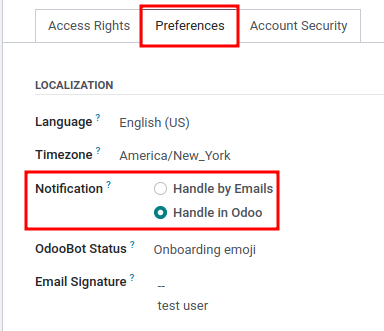
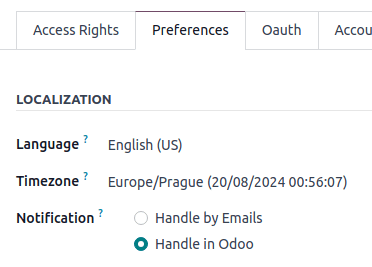
[IMP] Productivity: Discuss Getting Started rewrite
[FIX] Updates to Discuss doc for 17.0

Adding reviewer suggestions

Added blank line at end of file

X-original-commit: cdf833810fc4a304a8335777d51bc1b5a3ebcd6b

diff --git a/content/applications/productivity/discuss.rst b/content/applications/productivity/discuss.rst
@@ -1,105 +1,169 @@
 :show-content:
-:show-toc:
+:hide-page-toc:
 
 =======
 Discuss
 =======
 
-Odoo *Discuss* is an internal communication app that allows users to connect through messages,
-notes, and file sharing, either through a persistent chat window that works across applications, or
-through the dedicated *Discuss* dashboard.
+Odoo **Discuss** is an internal communication app that allows users to connect through messages,
+notes, file sharing, and video calls. **Discuss** enables communication through a persistent chat
+window that works across applications, or through the dedicated *Discuss* dashboard.
 
-.. _discuss_app/notification_preferences:
+Upon opening the :menuselection:`Discuss app`, the :guilabel:`Discuss` dashboard appears.
 
-Choose notifications preference
-===============================
+Inbox, starred, and history
+===========================
 
-Access user-specific preferences for the *Discuss* app by navigating to :menuselection:`Settings app
---> Users --> User --> Preferences tab`.
+Upon opening the :menuselection:`Discuss app`, the *Discuss* dashboard appears.
 
-.. image:: discuss/preferences-user.png
-   :alt: View of the Preferences tab for Odoo Discuss.
+On the :guilabel:`Discuss` dashboard, unread messages are visible in the :icon:`fa-inbox`
+:guilabel:`Inbox`. :icon:`fa-star-o` :guilabel:`Starred` is where starred messages are stored.
+:icon:`fa-history` :guilabel:`History` shows chatter updates for records in the Odoo database the
+user has been assigned to, or tagged on.
 
-By default, the :guilabel:`Notification` field is set as :guilabel:`Handle by Emails`. With this
-setting enabled, a notification email will be sent by Odoo every time a message is sent from the
-chatter, a note is sent with an `@` mention (from chatter), or a notification is sent for a record
-that the user follows. Something that triggers a notification is changing of the stage (if an email\
-is configured to be sent, for example if the task is set to :guilabel:`Done`).
+Direct messages
+===============
 
-By choosing :guilabel:`Handle in Odoo`, the above notifications are shown in the *Discuss* app's
-*inbox*. Messages can have the following actions taken on them: respond with an emoji by clicking
-:guilabel:`Add a Reaction`, or reply to the message by clicking on :guilabel:`Reply`. Additional
-actions may include starring the message by clicking :guilabel:`Marked as Todo`, or pinning the
-message by selecting :guilabel:`Pin` or even mark the message as unread by selecting
-:guilabel:`Marked as unread`.
-
-.. image:: discuss/reactions-discuss.png
-   :alt: View of an inbox message and its action options in Odoo Discuss.
-
-Clicking :guilabel:`Mark as Todo` on a message causes it to appear on the :guilabel:`Starred` page,
-while clicking :guilabel:`Mark as Read` moves the message to :guilabel:`History`.
-
-.. image:: discuss/starred-messages.png
-   :alt: View of messages marked as todo in Odoo Discuss.
-
-Start chatting
-==============
-
-The first time a user logs in to their account, OdooBot sends a message asking for permission to
-send desktop notifications for chats. If accepted, the user will receive push notifications on their
-desktop for the messages they receive, regardless of where the user is in Odoo.
-
-.. image:: discuss/odoobot-push.png
-   :alt: View of the messages under the messaging menu emphasizing the request for push
-         notifications for Odoo Discuss.
+*Direct messages* allow the user to communicate privately with one or multiple team members. To
+start a new direct message, click the :icon:`fa-plus` icon, next to :guilabel:`Direct Messages` on
+the :guilabel:`Discuss` dashboard, and enter the name of the desired person in the :guilabel:`Start
+a conversation` search bar that appears.
 
 .. tip::
-   To stop receiving desktop notifications, reset the notifications settings of the browser.
+   Multiple names can be selected in the :guilabel:`Start a conversation` search bar. Once all of
+   the names have been entered, press :kbd:`Enter`.
 
-To start a chat, go to the :menuselection:`Discuss` app and click on the :guilabel:`+ (plus)` icon
-next to :guilabel:`Direct Messages` or :guilabel:`Channels` in the left menu of the dashboard.
+Direct message actions
+----------------------
 
-.. image:: discuss/channels-direct-messages.png
-   :height: 400
-   :alt: View of Discuss's panel emphasizing the titles channels and direct messages in Odoo
-         Discuss.
+Hover over a direct message in the chat window to see a menu of actions to take on the message.
 
-A company can also easily create :doc:`public and private channels <discuss/team_communication>`.
+- :icon:`oi-smile-add` :guilabel:`(Add a Reaction)`: open a drop-down menu of emojis that can be
+  used to react to the direct message.
+- :icon:`fa-reply` :guilabel:`(Reply)`: reply to the direct message in a thread.
+- :icon:`fa-star-o` :guilabel:`(Mark as Todo)`: add the message to the :guilabel:`Starred` tab.
+- :icon:`fa-ellipsis-h` :guilabel:`(Expand)`: reveals more message actions, including:
 
-Mentions in the chat and on the chatter
----------------------------------------
+  - :icon:`fa-thumb-tack` :guilabel:`Pin`
+  - :icon:`fa-eye-slash` :guilabel:`Mark as Unread`
+  - :icon:`fa-pencil` :guilabel:`Edit`
+  - :icon:`fa-trash` :guilabel:`Delete`
 
-To mention a user within a chat or the chatter, type `@user-name`; to refer to a channel, type
-`#channel-name`. The user mentioned will be notified in their *inbox* or through an email, depending
-on their communication settings.
+Conversation actions
+--------------------
 
-.. image:: discuss/chat-windows.png
-   :alt: View of a couple of chat window messages for Odoo Discuss.
+The icons in the top-right corner of a direct message conversation represent different actions the
+user can take on that conversation.
 
-.. tip::
-   When a user is mentioned, the search list (list of names) suggests values first based on the
-   task's followers, and secondly on employees. If the record being searched does not match with
-   either a follower or employee, the scope of the search becomes all partners.
+Click :icon:`fa-bell` :guilabel:`Notification Settings` to set up notification preferences for the
+conversation, or click :icon:`fa-phone` :guilabel:`Start a Call` to begin a meeting. See the
+:ref:`Meetings <discuss/meetings>` section for more information about meetings.
+
+At the top of the direct message window, click the name of the direct message to change the group
+name, and choose to add a description in the adjacent :guilabel:`Add a description` field.
+
+.. image:: discuss/conversation-actions.png
+   :alt: View of the conversation actions.
+
+
+.. note::
+   The :guilabel:`Add a description` field is **only** available for group messages with more than
+   two participants.
 
 User status
 -----------
 
-It is helpful to see what colleagues are up to and how quickly they can respond to messages by
-checking their *status*. The status is shown on the left side of a contact's name on the
-:guilabel:`Discuss` sidebar, on the *messaging menu* and when listed in the *chatter*.
+It is helpful to see what colleagues are up to, and how quickly they can respond to messages, by
+checking their status. The status is displayed as a circle in the bottom-right corner of a contact's
+photo in the :icon:`fa-users` :guilabel:`(Members List)`.
+
+The color of the circle represents the user's status:
 
 - Green = online
 - Orange = away
 - White = offline
 - Airplane = out of the office
 
-.. image:: discuss/status.png
-   :height: 300
-   :alt: View of the contacts' status for Odoo Discuss.
+Leave a direct message conversation
+-----------------------------------
+
+To leave a direct message conversations, click the :icon:`fa-times` :guilabel:`(Leave this channel)`
+icon next to the conversation name in the :guilabel:`Direct Messages` section of the sidebar.
+
+.. note::
+   Leaving a conversation does **not** delete the direct messages in the conversation. The direct
+   message conversation's history is visible when another direct message with the same person, or
+   group, is created.
+
+.. _discuss/meetings:
+
+Meetings
+========
+
+In **Discuss**, *Meetings* are video calls. To start a meeting from the :guilabel:`Discuss`
+dashboard, click :guilabel:`Start a meeting` in the top-left corner, and select who to invite to the
+meeting, via the :guilabel:`Invite People` drop-down window that appears. To start a meeting from a
+direct message, click the :icon:`fa-phone` :guilabel:`Start a Call` icon in the top-right corner.
+
+.. image:: discuss/meeting.png
+   :alt: View of a Meeting in Odoo Discuss.
+
+Once a meeting has been started, the following buttons can be used:
+
++-----------------------------+--------------------------------+
+| Icon                        | Use                            |
++=============================+================================+
+| :icon:`fa-microphone`       | :guilabel:`Mute`               |
++-----------------------------+--------------------------------+
+| :icon:`fa-microphone-slash` | :guilabel:`Unmute`             |
++-----------------------------+--------------------------------+
+| :icon:`fa-headphones`       | :guilabel:`Deafen`             |
++-----------------------------+--------------------------------+
+| :icon:`fa-deaf`             | :guilabel:`Undeafen`           |
++-----------------------------+--------------------------------+
+| :icon:`fa-video-camera`     | :guilabel:`Turn camera on/off` |
++-----------------------------+--------------------------------+
+| :icon:`fa-hand-paper-o`     | :guilabel:`Raise Hand`         |
++-----------------------------+--------------------------------+
+| :icon:`fa-desktop`          | :guilabel:`Share Screen`       |
++-----------------------------+--------------------------------+
+| :icon:`fa-arrows-alt`       | :guilabel:`Enter Full Screen`  |
++-----------------------------+--------------------------------+
+
+.. _discuss_app/notification_preferences:
+
+User-specific notification preferences
+======================================
+
+Access user-specific preferences for the **Discuss** app by navigating to :menuselection:`Settings
+app --> Manage Users`, select a user, then click the :guilabel:`Preferences` tab.
+
+.. image:: discuss/preferences-user.png
+   :alt: View of the Preferences tab for Odoo Discuss.
+
+By default, the :guilabel:`Notification` field is set as :guilabel:`Handle by Emails`. With this
+setting enabled, a notification email is sent by Odoo every time a message is sent from the chatter
+of a record, a note is sent with an `@` mention (from the chatter of a record), or a notification is
+sent for a record the user follows.
+
+By choosing :guilabel:`Handle in Odoo`, the above notifications are shown in the **Discuss** app's
+*Inbox*.
+
+Chat from different applications
+================================
+
+The **Discuss** application enables communication across all of Odoo's applications. To view chats
+and channels, or start a new message, select the speech bubbles that are consistently present in the
+upper-right corner of the database header.
+
+.. image:: discuss/discuss-in-other-apps.png
+   :alt: Use Discuss across other applications by clicking the speech bubbles.
 
 .. seealso::
    - :doc:`discuss/team_communication`
    - :doc:`/applications/essentials/activities`
+   - :doc:`discuss/ice_servers`
+   - :doc:`discuss/chatter`
 
 .. toctree::
    :titlesonly:
